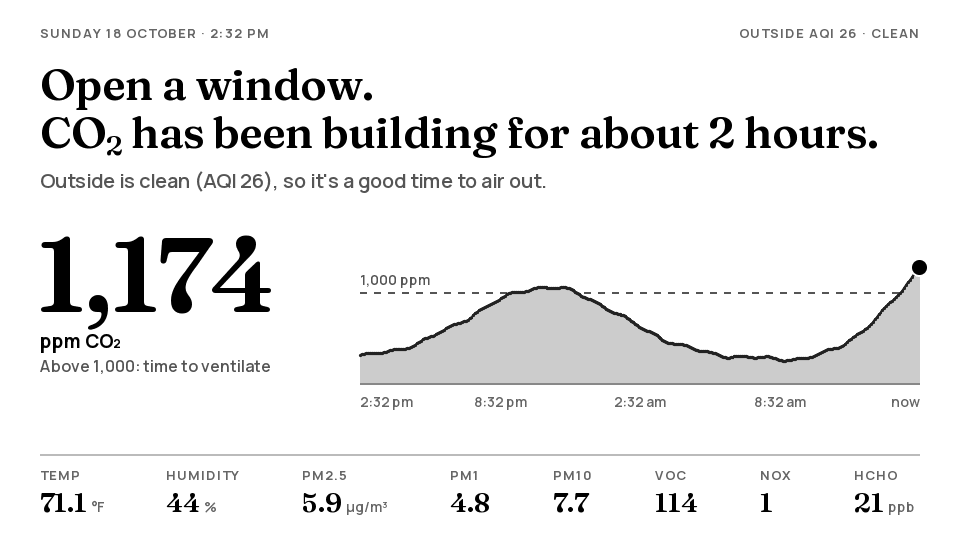
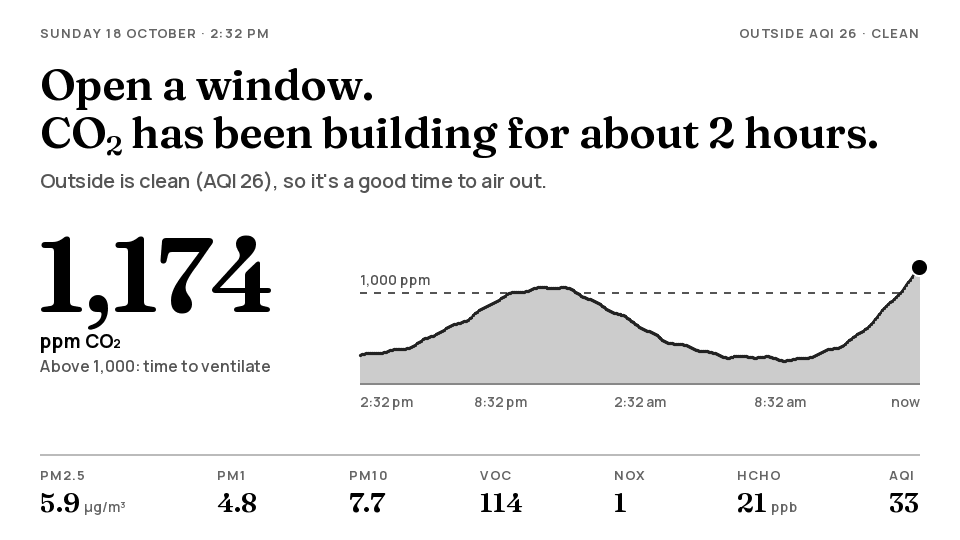
Screen: show CO2 as the main number, drop temperature and humidity
The sensor runs warm in its enclosure and a thermometer nearby does the
job better, so the screen no longer shows temperature or humidity, and
the dry/humid advice is gone (its humidity was biased low by the same
heat). When there's nothing to act on, the big number is now CO2 with
its 24 hours beside it. Both readings still go to the web page and Home
Assistant. Firmware 1.7.

diff --git a/lib/ui/src/screen.cpp b/lib/ui/src/screen.cpp
@@ -147,22 +147,11 @@ Hero hero(const ScreenData &d) {
               lim::kVocAct, "250"};
     case Topic::NOx:
       return {num(r[Metric::NOx], "%.0f"), "NOx index", "1 is normal", Metric::NOx, 0, 100, lim::kNoxAct, "50"};
-    case Topic::Dry:
-    case Topic::Humid:
-      return {num(r[Metric::Humidity], "%.0f") + "%", "humidity", "30 to 60% is comfortable", Metric::Humidity, 0,
-              100, a.topic == Topic::Dry ? lim::kHumidityLow : lim::kHumidityHigh,
-              a.topic == Topic::Dry ? "30%" : "60%"};
-    default: {
-      // Nothing to act on: show comfort, with CO2 through the day in the chart
-      const float t = temp_display(d, r[Metric::Temp]);
-      const float rh = r[Metric::Humidity];
-      std::string note = "Comfortable";
-      const float t_f = d.fahrenheit ? t : t * 9 / 5 + 32;
-      if (!std::isnan(t_f) && t_f < 66) note = "A little cool";
-      if (!std::isnan(t_f) && t_f > 78) note = "A little warm";
-      return {std::isnan(t) ? "--" : fmt("%.0f", t) + "°", std::isnan(rh) ? "humidity --" : fmt("%.0f", rh) + "% humidity",
-              note, Metric::CO2, 400, 1400, lim::kCo2Act, "CO₂ · open a window above 1,000 ppm"};
-    }
+    default:
+      // Nothing to act on: CO2, the reading that moves most through the day
+      return {air::with_commas(r[Metric::CO2]), "ppm CO₂",
+              r[Metric::CO2] > lim::kCo2Watch ? "Starting to build" : "Well ventilated", Metric::CO2, 400, 1400,
+              lim::kCo2Act, "Open a window above 1,000 ppm"};
   }
 }
 
@@ -259,12 +248,14 @@ void top_line(M5Canvas &c, const ScreenData &d) {
 }
 
 // ---- Bottom row: every other reading ---------------------------------------------
-void bottom_row(M5Canvas &c, const ScreenData &d, Metric featured, bool featured_is_comfort) {
+// Temperature and humidity aren't shown: the sensor sits warm in its enclosure, and a thermometer
+// nearby does that job better. Both still go to the web page and Home Assistant.
+void bottom_row(M5Canvas &c, const ScreenData &d, Metric featured) {
   std::vector<Item> items;
-  const Metric order[] = {Metric::Temp, Metric::Humidity, Metric::CO2, Metric::PM25, Metric::PM1,
-                          Metric::PM10, Metric::VOC,      Metric::NOx, Metric::HCHO};
+  const Metric order[] = {Metric::CO2, Metric::PM25, Metric::PM1, Metric::PM10,
+                          Metric::VOC, Metric::NOx,  Metric::HCHO};
   for (Metric m : order) {
-    if (featured_is_comfort ? (m == Metric::Temp || m == Metric::Humidity) : m == featured) continue;
+    if (m == featured) continue;
     if (m == Metric::HCHO && !d.hcho_fitted) continue;
     items.push_back(item(d, m));
   }
@@ -323,10 +314,9 @@ void draw_main(M5Canvas &c, const ScreenData &d) {
   text(c, serif_hero, h.number, kMargin - 4, base, 0);
   text(c, sans_strong, h.unit, kMargin, base + 36, 0);
   text(c, sans_note, h.note, kMargin, base + 60, 5);
-  const bool comfort = a.topic == Topic::None || a.topic == Topic::OutdoorSmoke;
   chart(c, d, 360, std::max(y + 18, 226), 560, 150, h.chart, h.lo, h.hi, h.limit, h.limit_label, true);
 
-  bottom_row(c, d, h.chart, comfort || a.mood == Mood::Starting || a.mood == Mood::NoSensor);
+  bottom_row(c, d, h.number.empty() ? Metric::Count : h.chart);
 }
 
 void trend_block(M5Canvas &c, const ScreenData &d, int y, const char *title, const char *unit, Metric m, float lo,
@@ -380,7 +370,8 @@ std::string signature(const ScreenData &d) {
                   '|' + d.advice.outdoor + '|' + std::to_string(d.history ? d.history->version() : 0) + '|' +
                   std::to_string(d.indoor_aqi);
   if (d.time_valid) s += '|' + std::to_string(d.local_time.tm_yday) + clock_text(d, d.local_time);
-  for (int m = 0; m < air::kMetrics; m++) s += '|' + item(d, (Metric) m).value;
+  for (int m = 0; m < air::kMetrics; m++)
+    if ((Metric) m != Metric::Temp && (Metric) m != Metric::Humidity) s += '|' + item(d, (Metric) m).value;
   return s;
 }
 

diff --git a/lib/air/src/advice.h b/lib/air/src/advice.h
@@ -9,7 +9,6 @@
 //   HCHO        40 ppb watch (Health Canada long-term limit, 50 ug/m3), 80 act (WHO, 0.1 mg/m3)
 //   VOC index   150 watch, 250 act (Sensirion's index: 100 is the room's normal level)
 //   NOx index   20 watch, 50 act (1 is normal; a gas stove pushes it up)
-//   Humidity    30-60% comfortable
 #include <cmath>
 #include <cstdio>
 #include <string>
@@ -94,7 +93,7 @@ inline Advice advise(const Readings &r, const History &h, const Outdoor &out, bo
   using namespace limits;
   Advice a;
   const float co2 = r[Metric::CO2], pm25 = r[Metric::PM25], voc = r[Metric::VOC], nox = r[Metric::NOx];
-  const float hcho = r[Metric::HCHO], rh = r[Metric::Humidity];
+  const float hcho = r[Metric::HCHO];
 
   if (!sensor_ok) {
     if (sensor_seen) {
@@ -168,10 +167,6 @@ inline Advice advise(const Readings &r, const History &h, const Outdoor &out, bo
   } else if (outdoor_known && out.aqi > 150) {
     a = {Mood::Fine, Topic::OutdoorSmoke, "Keep the windows shut.",
          std::string("It's ") + aqi_word(out.aqi) + " outside (" + aqi_txt + "). The air inside is fine.", ""};
-  } else if (!std::isnan(rh) && rh < kHumidityLow) {
-    a = {Mood::Fine, Topic::Dry, "The air is dry.", "Humidity is " + fmt("%.0f", rh) + "%. A humidifier would help.", ""};
-  } else if (!std::isnan(rh) && rh > kHumidityHigh) {
-    ventilate(Mood::Fine, Topic::Humid, "The air is humid.", "Humidity is " + fmt("%.0f", rh) + "%.");
   } else if (co2 > kCo2Watch) {
     a = {Mood::Fine, Topic::CO2, "The air is fine.", "CO₂ is starting to build (" + with_commas(co2) + " ppm).", ""};
   } else if (pm25 > kPm25Watch || hcho > kHchoWatch || voc >= kVocWatch || nox >= kNoxWatch) {

diff --git a/preview/preview_main.cpp b/preview/preview_main.cpp
@@ -118,7 +118,6 @@ int main() {
   render(c, "fresh", Day{.co2_now = 640, .pm25_now = 3.4f, .hcho_now = 16, .voc_now = 96}, clean);
   render(c, "particles", Day{.co2_now = 720, .pm25_now = 24, .voc_now = 160, .cooking = true}, clean);
   render(c, "smoke_outside", Day{.co2_now = 690, .pm25_now = 7}, smoky);
-  render(c, "dry", Day{.co2_now = 610, .pm25_now = 3, .temp_now = 20.5f, .rh_now = 24}, clean, nullptr, false);
   render(c, "starting", Day{}, clean, [](ui::ScreenData &d, air::Readings &r) {
     r = air::Readings();
     static air::History empty;

diff --git a/test/test_air/test_main.cpp b/test/test_air/test_main.cpp
@@ -234,8 +234,8 @@ static void test_advice_states() {
 
   a = advise(room(600, 5, 45, 100, 1, 95), h, outside(26), true, true);
   TEST_ASSERT_EQUAL(Topic::HCHO, a.topic);
-  a = advise(room(600, 5, 22), h, Outdoor(), true, true);
-  TEST_ASSERT_EQUAL(Topic::Dry, a.topic);
+  a = advise(room(600, 5, 22), h, Outdoor(), true, true);  // dry: not advised on, the sensor runs warm
+  TEST_ASSERT_EQUAL(Topic::None, a.topic);
   a = advise(room(600, 5, 45, 100, 64), h, Outdoor(), true, true);
   TEST_ASSERT_EQUAL(Topic::NOx, a.topic);
 }

diff --git a/src/version.h b/src/version.h
@@ -1,5 +1,5 @@
 #pragma once
 // The firmware version shown on the web page and in the serial log. Bump it when you change
 // something worth telling apart; the build date and time are added by the compiler.
-constexpr const char *kVersion = "1.6";
+constexpr const char *kVersion = "1.7";
 constexpr const char *kBuild = __DATE__ " " __TIME__;

diff --git a/README.md b/README.md
@@ -30,7 +30,6 @@ The headline is always one thing to do, most urgent first:
 | Gas stove fumes | Turn on the kitchen fan. | NOx index 50 |
 | CO₂ building up | Open a window. | 1,000 ppm |
 | Smoke outside | Keep the windows shut. | outdoor AQI above 150 |
-| Dry or humid | The air is dry. / The air is humid. | below 30% / above 60% |
 | A little above usual | The air is fine. | CO₂ 800, PM2.5 9, HCHO 40, VOC 150, NOx 20 |
 | Otherwise | The air is fresh. | |
 
